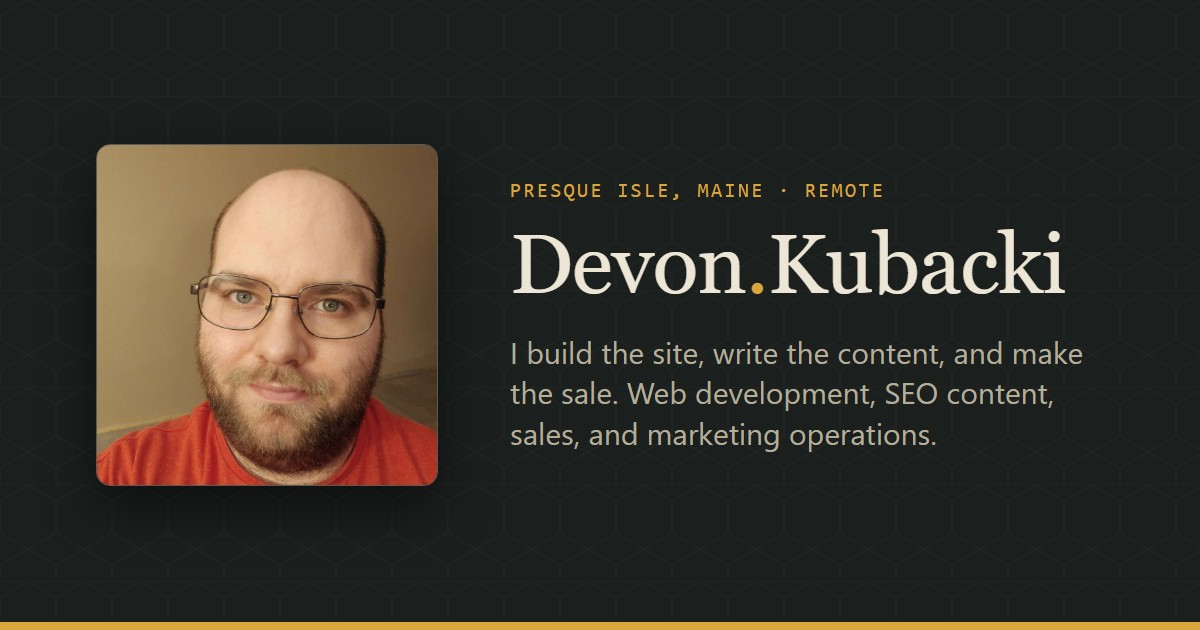
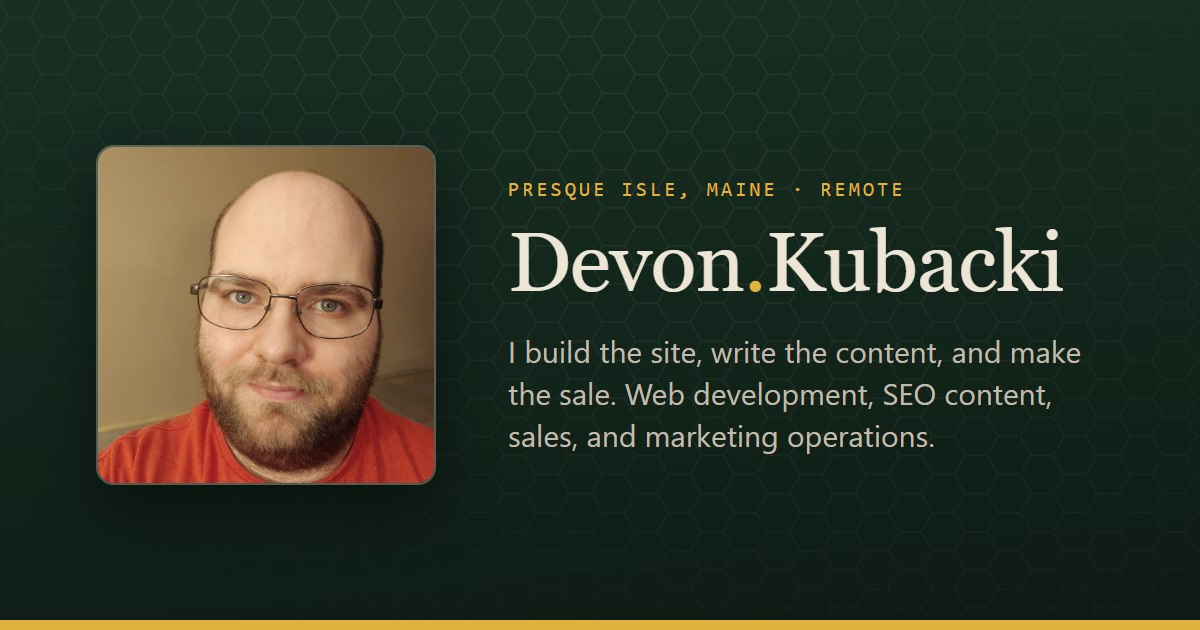
Share card regenerated for the Hyrule palette, and made a build
tools/og-card.html lays the card out with the site's own tokens (forest gradient, honeycomb, gold rule); tools/build-og.ps1 screenshots it with headless Edge at 1200x630 and writes images/og-card.jpg. Run it after any palette change.

diff --git a/tools/og-card.html b/tools/og-card.html
@@ -1,0 +1,55 @@
+<!DOCTYPE html>
+<html lang="en">
+<head>
+<meta charset="UTF-8">
+<title>og-card source</title>
+<link rel="stylesheet" href="../css/style.css">
+<style>
+  /* 1200×630 share card. Built by tools/build-og.ps1 (headless Edge screenshot),
+     served from the preview server so the site stylesheet's tokens resolve.
+     The ground is the hero: forest gradient, honeycomb, blinks frozen off. */
+  html, body { margin: 0; width: 1200px; height: 630px; overflow: hidden; }
+  body { background: var(--ink); }
+  .card {
+    position: relative; width: 1200px; height: 630px; overflow: hidden;
+    background: var(--pine-gradient);
+    color: var(--text);
+    isolation: isolate;
+  }
+  .card::before {
+    content: ""; position: absolute; inset: -40%; z-index: -1; pointer-events: none;
+    background-image: var(--hex-tile); background-size: 38.105px 66px;
+    transform: rotate(30deg);
+    -webkit-mask-image: radial-gradient(ellipse 60% 55% at 40% 35%, #000 20%, transparent 100%);
+            mask-image: radial-gradient(ellipse 60% 55% at 40% 35%, #000 20%, transparent 100%);
+    opacity: 0.8;
+  }
+  .card::after {
+    content: ""; position: absolute; left: 0; right: 0; bottom: 0; height: 10px;
+    background: var(--amber);
+  }
+  .inner { position: absolute; inset: 0; display: flex; align-items: center; gap: 72px; padding: 0 96px; }
+  .photo {
+    width: 340px; height: 340px; flex: none; object-fit: cover;
+    border-radius: 18px; border: 2px solid rgba(237, 230, 214, 0.3);
+    box-shadow: 0 24px 60px rgba(0, 0, 0, 0.45);
+  }
+  .eyebrow { margin: 0 0 14px; font-family: var(--font-mono); font-size: 20px; letter-spacing: 0.16em; text-transform: uppercase; color: var(--amber); }
+  .name { margin: 0; font-family: var(--font-serif); font-size: 84px; line-height: 1; letter-spacing: -0.01em; color: var(--text); }
+  .name span { color: var(--amber); }
+  .tag { margin: 26px 0 0; font-family: var(--font-sans); font-size: 30px; line-height: 1.4; color: #C0BBAC; max-width: 600px; }
+</style>
+</head>
+<body>
+<div class="card">
+  <div class="inner">
+    <img class="photo" src="../images/devon-kubacki.webp" alt="">
+    <div>
+      <p class="eyebrow">Presque Isle, Maine &middot; Remote</p>
+      <h1 class="name">Devon<span>.</span>Kubacki</h1>
+      <p class="tag">I build the site, write the content, and make the sale. Web development, SEO content, sales, and marketing operations.</p>
+    </div>
+  </div>
+</div>
+</body>
+</html>
